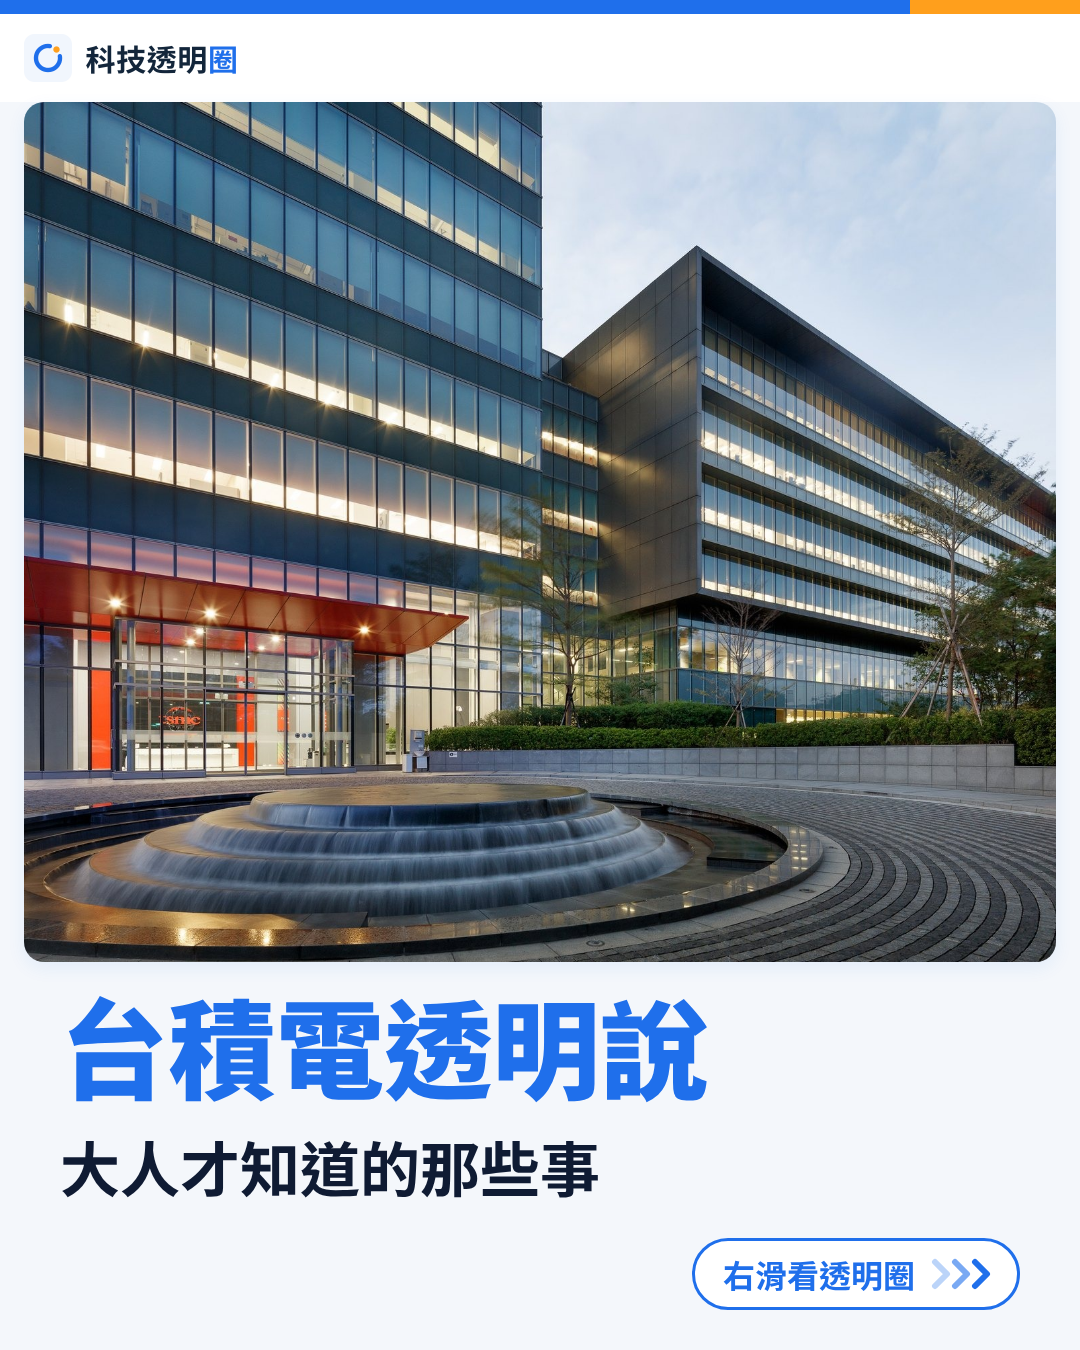
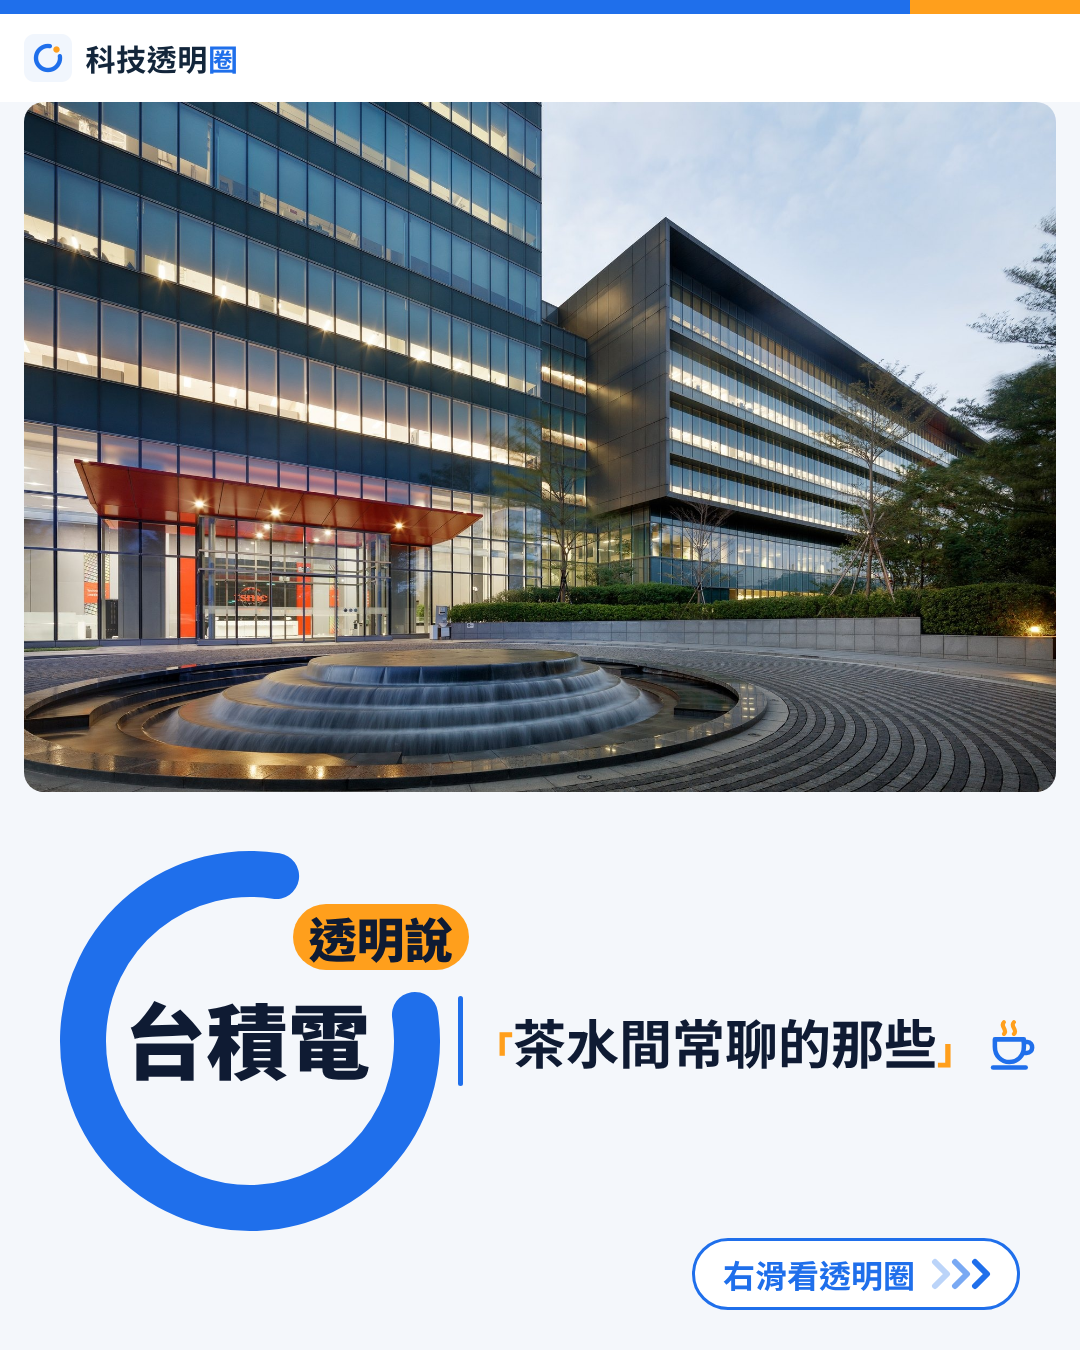
科技透明圈 範本 A1 封面換成 2026-11-06 定案版（台積電範例；照片框 1032×690）、A2 欄位標題「待遇透明圈」；腳本字型改可退回 fontsource
Claude-Session: https://claude.ai/code/session_018gakVRNRsek4G6osuECGNS

diff --git a/docs/tc/assets/scripts/render_samples.py b/docs/tc/assets/scripts/render_samples.py
@@ -139,7 +139,7 @@ DISC = "網友回報，非公司公告・與各公司無合作或授權關係"
 TITLE_FMT = "{公司}透明說"            # 封面第一行大標（公司名＋透明說）
 HINT = os.environ.get("TC_HINT") or "大人才知道的那些事"   # 封面第二行（隱晦、不直白；7～10 字單行；法遵：不得出現內部／爆料／內幕／獨家／祕密）
 COVER_HINT = "右滑看透明圈"
-SECTION_TITLE = "工程師待遇"     # 欄位標題；文章若是特定單位，寫成「廣達 BU9 透明圈」這種
+SECTION_TITLE = "待遇透明圈"     # 欄位標題（2026-11-06 Andy 定案）；文章若是特定單位才加括號（單位用藍色小一級），例如「待遇透明圈（BU9）」，一般篇不加
 HQ_LABEL = "總部：〔待填〕"   # 地圖上的標示，填成「總部：桃園龜山」之類
 TT_PX, HT_PX = 108, 60
 # 提示：白底細藍框圓角小標籤＋右側三個由淡到深的箭頭（›››，自繪 SVG，非文字箭頭）
@@ -156,10 +156,12 @@ SWIPE_CSS = f"""
 .cv .sw{{position:absolute;right:{SW_R}px;bottom:{SW_B}px;height:{SW_H}px;display:flex;align-items:center;gap:14px;padding:0 24px 0 28px;border-radius:{SW_H//2}px;background:#fff;border:3px solid {BLUE};color:{BLUE};font-size:32px;font-weight:700;white-space:nowrap}}
 .cv .sw svg{{display:block}}
 """
-S["A1_cover"] = (f'<div class="cv"><div class="hd"></div><div class="strip"><i></i></div><div class="lg">{OPEN_RING}</div>'
-    f'<div class="pic" data-b style="background-image:url({photo_uri("tsmc/photo_18.jpg")});background-position:50% 55%"></div>'
-    f'<div class="low"><div class="nm">{TITLE_FMT.format(公司=NAME)}</div><div class="tg">{HINT}</div></div>{SWIPE}</div>')
-
+# ---- A1 封面＝2026-11-06 Andy 定案版（開口正圓＋橘膠囊「透明說」在缺口中間＋右側旁白引號與茶杯＋右下「右滑看透明圈」）----
+# 產圖程式 title_d.py（＋title_styles.py）直接重用；規格見 README「公司待遇文封面標題（2026-11-06 Andy 定案）」。
+# 照片框改 1032×690（與 render_quanta.py 定案版相同，不沿用上面 PIC_H=862）；公司名用 NAME、副標「茶水間常聊的那些」。
+# 因為要另開 Playwright 出圖，A1 在下面轉圖迴圈之前先單獨輸出（A1_cover.png），重疊檢查用 title_d 的「墨跡外框＋像素距離」版，結果併入 overlap_report.json。
+A1_PIC_H = 690
+S_A1 = True
 # 待遇表：上半台灣地圖＋總部位置（world-atlas countries-50m，ISC／Natural Earth 公有領域），下半「工程師待遇」6 欄；每欄只有欄名＋重點值，不放備註與頁底免責（Andy 11-06）
 rows = [("碩畢月薪", "〔待填〕K"), ("年終・分紅", "〔待填〕個月"), ("升等路徑", "〔待填〕"),
         ("加班時數", "網友普遍回報工時偏長"), ("繁忙程度", "〔待填〕"), ("出差頻率", "〔待填〕")]
@@ -317,6 +319,13 @@ JS = """() => {
 }"""
 
 report = {}
+sys.path.insert(0, str(Path(__file__).resolve().parent))
+for _k, _v in (("TC_VAR", "D6"), ("TC_SW", "46"), ("TC_PW", "176"), ("TC_PH", "66"), ("TC_PF", "48"), ("TC_LG", "18"), ("TC_COMPANY", NAME), ("TC_OUTNAME", "A1_cover")): os.environ[_k] = os.environ.get(_k) or _v
+import title_d
+_g = dict(globals(), PIC_H=A1_PIC_H, OUT=OUT, TD_PHOTO=lambda: photo_uri("tsmc/photo_18.jpg"), TD_POS="50% 55%")
+title_d.main(_g)
+_ar = json.load(open(OUT / "overlap_A1_cover.json"))
+report["A1_cover"] = {"bad": _ar["重疊"], "oob": _ar["出界"] + _ar["壓到Quanta"] * 0, "ovf": False, "small": [], "n": len(_ar["boxes"])}
 with sync_playwright() as p:
     b = p.chromium.launch(executable_path="/opt/pw-browsers/chromium")
     for name, html in S.items():

diff --git a/docs/tc/assets/scripts/title_d.py b/docs/tc/assets/scripts/title_d.py
@@ -31,7 +31,7 @@ def is_cjk(s): return all(ord(c) > 0x2E80 for c in s)
 
 
 def measure(pg, text):
-    return pg.evaluate("""async t=>{await document.fonts.load("900 100px TCS");const c=document.createElement('canvas').getContext('2d');c.font="900 100px TCS";return c.measureText(t).width/100}""", text)
+    return pg.evaluate("""async t=>{await document.fonts.load("900 100px TCS");await document.fonts.load("900 100px 'Noto Sans TC'");const c=document.createElement('canvas').getContext('2d');c.font="900 100px TCS, 'Noto Sans TC'";return c.measureText(t).width/100}""", text)
 
 
 def sdist(x, y, cx, cy, PW, PH):                 # 點到 stadium 外緣距離
@@ -158,8 +158,8 @@ def build(g, company, layout, widths, var, dxy=(0, 0), cup_x=None, OVERLAY=False
         (a0, b0), (a1, b1) = Lc(*LOGO_PTS[0]), Lc(*LOGO_PTS[1]); dcx, dcy = Lc(*LOGO_DOT)
         body += (f'<svg style="position:absolute;left:0;top:0" width="1080" height="1350"><path d="M {a0:.2f} {b0:.2f} A {25*kk:.2f} {25*kk:.2f} 0 1 1 {a1:.2f} {b1:.2f}" fill="none" stroke="#E5004C" stroke-opacity=".5" stroke-width="{9*kk:.2f}" stroke-linecap="round"/>'
                  f'<circle cx="{dcx:.2f}" cy="{dcy:.2f}" r="{6.6*kk:.2f}" fill="#00A0FF" fill-opacity=".5"/></svg>')
-    photo = g["photo_uri_abs"](Path(g["__file__"]).resolve().parent / "cover_photo.jpg")
-    pic = f'<div class="pic" data-k="photo" style="box-shadow:none;background-image:url({photo});background-position:50% 50%"></div>'
+    photo = g["TD_PHOTO"]() if g.get("TD_PHOTO") else g["photo_uri_abs"](Path(g["__file__"]).resolve().parent / "cover_photo.jpg")
+    pic = f'<div class="pic" data-k="photo" style="box-shadow:none;height:{g["PIC_H"]}px;background-image:url({photo});background-position:{g.get("TD_POS", "50% 50%")}"></div>'
     sw_ = g["SWIPE"].replace('<div class="sw">', '<div class="sw" data-k="swipe">')
     hd = f'<div class="hd"></div><div class="strip"><i></i></div><div class="lg">{g["OPEN_RING"]}</div>'
     info = dict(font=f, lines=lines, dy=dy, center=(ccx, ccy), R=R, gap_top=sdist(ac * math.cos(t_top), ac * math.sin(t_top), pxr, pyr, PW, PH) - CAP_R,

diff --git a/docs/tc/assets/scripts/title_styles.py b/docs/tc/assets/scripts/title_styles.py
@@ -23,14 +23,20 @@ REASON = {
 }
 SUB = "茶水間常聊的那些"
 TITLE = "廣達透明說"
-SANS = os.environ.get("TITLE_SANS", "/tmp/claude-0/-home-user-tw-rotation/1662701f-8abb-57a6-b66d-4e0b4e90dd73/scratchpad/font/NotoSansTC.ttf")
-SERIF = Path(os.environ.get("TITLE_SERIF_DIR", "/tmp/claude-0/-home-user-tw-rotation/1662701f-8abb-57a6-b66d-4e0b4e90dd73/scratchpad/sf/package"))
+SANS = os.environ.get("TITLE_SANS", "")   # Noto Sans TC 可變字型 .ttf；沒設就用 TW_FONT_DIR 的 fontsource css
+SERIF = Path(os.environ.get("TITLE_SERIF_DIR", "/nonexistent"))   # Noto Serif TC 可變字型套件（只有舊版試作用到，定稿版不需要）
 
 
 def font_css():
-    css = f"@font-face{{font-family:'TCS';font-weight:100 900;src:url('file://{SANS}')}}"
-    t = (SERIF / "wght.css").read_text(encoding="utf8").replace("url(./files/", f"url(file://{SERIF}/files/")
-    return css + t
+    """有可變字型就定義 TCS（100～900）；沒有就退回 TW_FONT_DIR 的 fontsource css（Noto Sans TC 400／700／900），讓樣本腳本在別的環境也能跑。"""
+    if SANS and Path(SANS).is_file():
+        css = f"@font-face{{font-family:'TCS';font-weight:100 900;src:url('file://{SANS}')}}"
+    else:
+        FD = os.environ.get("TW_FONT_DIR", "")
+        css = "".join(f'@import url("file://{FD}/{w}.css");' for w in (400, 700, 900)) if FD else ""
+    if (SERIF / "wght.css").exists():
+        css += (SERIF / "wght.css").read_text(encoding="utf8").replace("url(./files/", f"url(file://{SERIF}/files/")
+    return css
 
 
 def build(n, g):

diff --git a/docs/tc/assets/README.md b/docs/tc/assets/README.md
@@ -201,4 +201,4 @@ Andy 原話（本輪摘要）：「廣達透明說 特效有夠爛 跟PPT一樣 
 ### 第 2 頁欄位標題（2026-11-06 Andy）
 - 欄位標題預設「待遇透明圈」；只有特定單位的文章才加括號，用環境變數 `TC_UNIT`（例如 `TC_UNIT=BU9` → 「待遇透明圈（BU9）」，括號比主標小一級、藍色）；沒值就不加。這篇廣達文章是 BU9，其他篇一律不加。
 - 地圖加料（同一輪）：海面極淡經緯網格、竹科／中科／南科三個灰點加小字（台北離總部太近不標）、右下「桃園市區界」小框把龜山區藍色填滿並標「龜山區」；圖層資料 `make_towns.mjs`（npm `taiwan-atlas@2021.9.20` 的 `towns-10t.json`，MIT；原始來源內政部國土測繪中心「鄉(鎮、市、區)界線」，政府資料開放授權條款第 1 版）。文案的地圖出處要同步寫「直轄市、縣市界線」與「鄉(鎮、市、區)界線」兩個圖層。
-- 參考實作已複製到 `scripts/title_d.py`、`scripts/title_styles.py`（字型路徑用環境變數 `TITLE_SANS`／`TITLE_SERIF_DIR`，預設指到作者容器，換環境要改）。**注意：`scripts/render_samples.py` 的 A1 範例封面（台積電照片、舊兩行標題）尚未同步成這個定稿版，下一批處理**；公司待遇文實際出圖請用 `tc/post-quanta` 分支的 `render_quanta.py`。
+- 參考實作在 `scripts/title_d.py`、`scripts/title_styles.py`（字型：有 `TITLE_SANS` 指到 Noto Sans TC 可變字型就用，沒有就退回 `TW_FONT_DIR` 的 fontsource css）。**`scripts/render_samples.py` 的 A1 範例封面（台積電照片）已換成定稿版**：公司名用常數 `NAME`、照片框 1032×690、重疊檢查改用 title_d 的墨跡外框＋像素距離，A2 範例的欄位標題改為「待遇透明圈」（無單位括號）。範例圖在 `samples/A1_cover.png`、`samples/A2_fields_textonly.png`。
